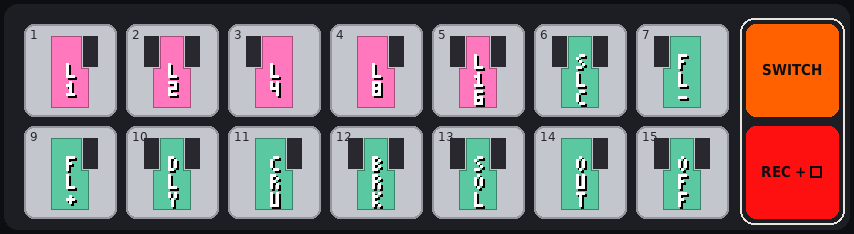
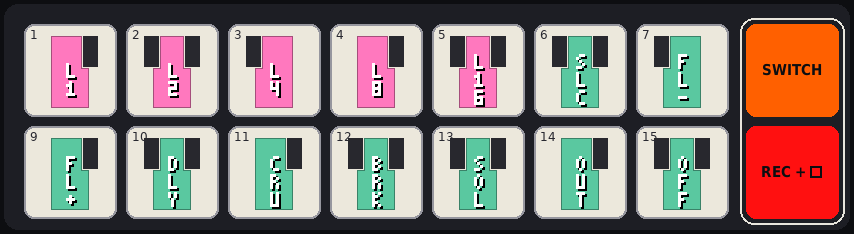
Pads as keys: the background shows the key's light by default (off, offered, on, blinking), not the pad's
Claude-Session: https://claude.ai/code/session_01N9f4HJn3ZZ4mEGDi7YNfQW

diff --git a/docs/_FR/22-reperes-ecran-et-menus.md b/docs/_FR/22-reperes-ecran-et-menus.md
@@ -228,7 +228,7 @@ Trois niveaux de lecture. 1 — tous les modes en toutes lettres, dans les coule
 
 <p align="center"><img src="../img/pads-all-modes-short.png" width="560" alt="pads"></p>
 
-3 — chaque pad avec la touche qu’il remplace, comme le clavier à l’écran la dessine (même fonction, même couleur : rose = validé au relâché sur le clavier, menthe = agit tout de suite, violet = piste qui joue ; une touche noire entre ses deux blanches gris foncé). Le fond du pad montre sa lumière par défaut (allumé, en lecture, les quatre pistes qui jouent) : gris clair éteint, blanc vif allumé. Clignotent seulement : un clip armé (rouge rapide) ou en LOOP (vert / violet), REC pendant une prise, MUTE ALL quand toutes les pistes sont coupées (rouge rapide) :
+3 — chaque pad avec la touche qu’il remplace, comme le clavier à l’écran la dessine (même fonction, même couleur : rose = validé au relâché sur le clavier, menthe = agit tout de suite, violet = piste qui joue ; une touche noire entre ses deux blanches gris foncé). Le fond du pad montre la lumière de cette touche par défaut, couche tenue, en lecture, les quatre pistes qui jouent : gris clair éteinte, blanc cassé proposée, blanc vif allumée, rayons blancs clignotante (en DRUMS, une piste de batterie : grosses caisses et charley ouvert clignotent, caisses claires et charley fermé allumés) :
 
 <p align="center"><img src="../img/pads-all-modes-keys.png" width="560" alt="pads"></p>
 

diff --git a/docs/_EN/22-screen-keyboard-and-menus.md b/docs/_EN/22-screen-keyboard-and-menus.md
@@ -228,7 +228,7 @@ Three levels. 1 — every mode in full words, in the pads’ colours:
 
 <p align="center"><img src="../img/pads-all-modes-short.png" width="560" alt="pads"></p>
 
-3 — each pad with the key it stands for, as the screen keyboard draws it (same function, same colour: pink = valid on release on the keyboard, mint = acts at once, violet = a track playing; a black key between its two white keys in dark grey). The pad’s background shows its light by default (on, playing, the four tracks playing): light grey off, bright white on. Only these blink: a clip armed (fast red) or in LOOP (green / violet), REC during a take, MUTE ALL when every track is out (fast red):
+3 — each pad with the key it stands for, as the screen keyboard draws it (same function, same colour: pink = valid on release on the keyboard, mint = acts at once, violet = a track playing; a black key between its two white keys in dark grey). The pad’s background shows that key’s light by default, layer held, playing, the four tracks playing: light grey off, off-white offered, bright white on, white rays blinking (DRUMS, a drum track: kicks and the open hat blink, snares and the closed hat lit):
 
 <p align="center"><img src="../img/pads-all-modes-keys.png" width="560" alt="pads"></p>
 

diff --git a/README.md b/README.md
@@ -45,9 +45,8 @@ In short:
 <p align="center"><img src="docs/img/pads-all-modes-short.png" width="560" alt="The pads in each mode, in short, in the pads' colours"></p>
 
 And each pad as the key it stands for, drawn as the screen keyboard draws it (pink: valid on release on the keyboard,
-mint: acts at once, violet: a track playing); the pad's background shows its light by default, playing: light grey
-off, bright white on (the tracks' mutes and MUTE ALL). Only a clip armed or in LOOP, REC during a take and MUTE ALL
-when every track is out blink:
+mint: acts at once, violet: a track playing); the pad's background shows that key's light by default, layer held and
+playing: light grey off, off-white offered, bright white on, white rays blinking:
 
 <p align="center"><img src="docs/img/pads-all-modes-keys.png" width="560" alt="Each pad with the key it stands for, in the screen keyboard's colours"></p>
 
